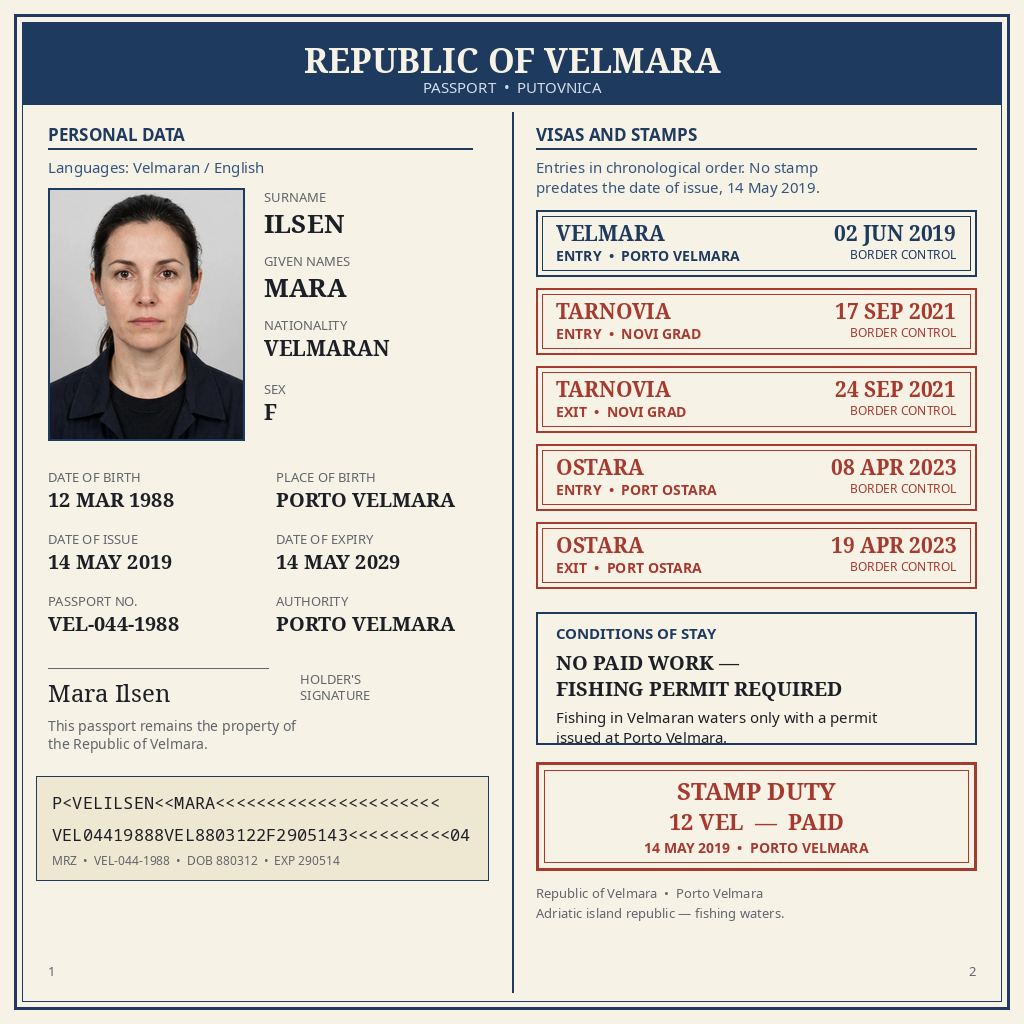
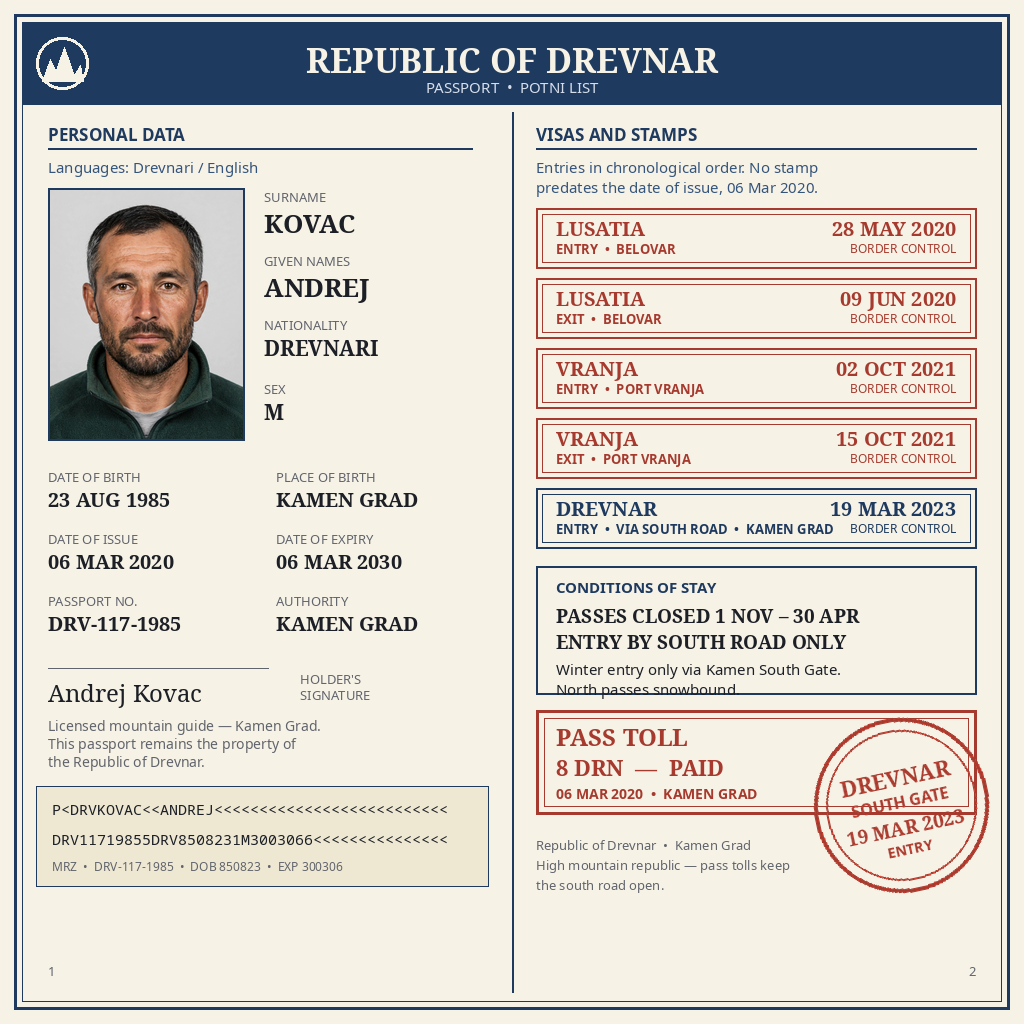
Drevnar passport spread v2: Andrej Kovac, mountain republic, South Gate stamp

diff --git a/main.py b/main.py
@@ -1,7 +1,8 @@
-"""Velmara passport spread: copy the committed entry.png to /output.
+"""Drevnar passport spread: copy the committed entry.png to /output.
 
 The spread itself (1024x1024 PNG, under 1 MiB) was rendered in-session
-with PIL + Noto fonts from a generated passport portrait of Mara Ilsen.
+with PIL + Noto fonts from a generated passport portrait of Andrej Kovac,
+mountain guide of the Republic of Drevnar.
 This program is deterministic and uses only the standard library.
 """
 import shutil
